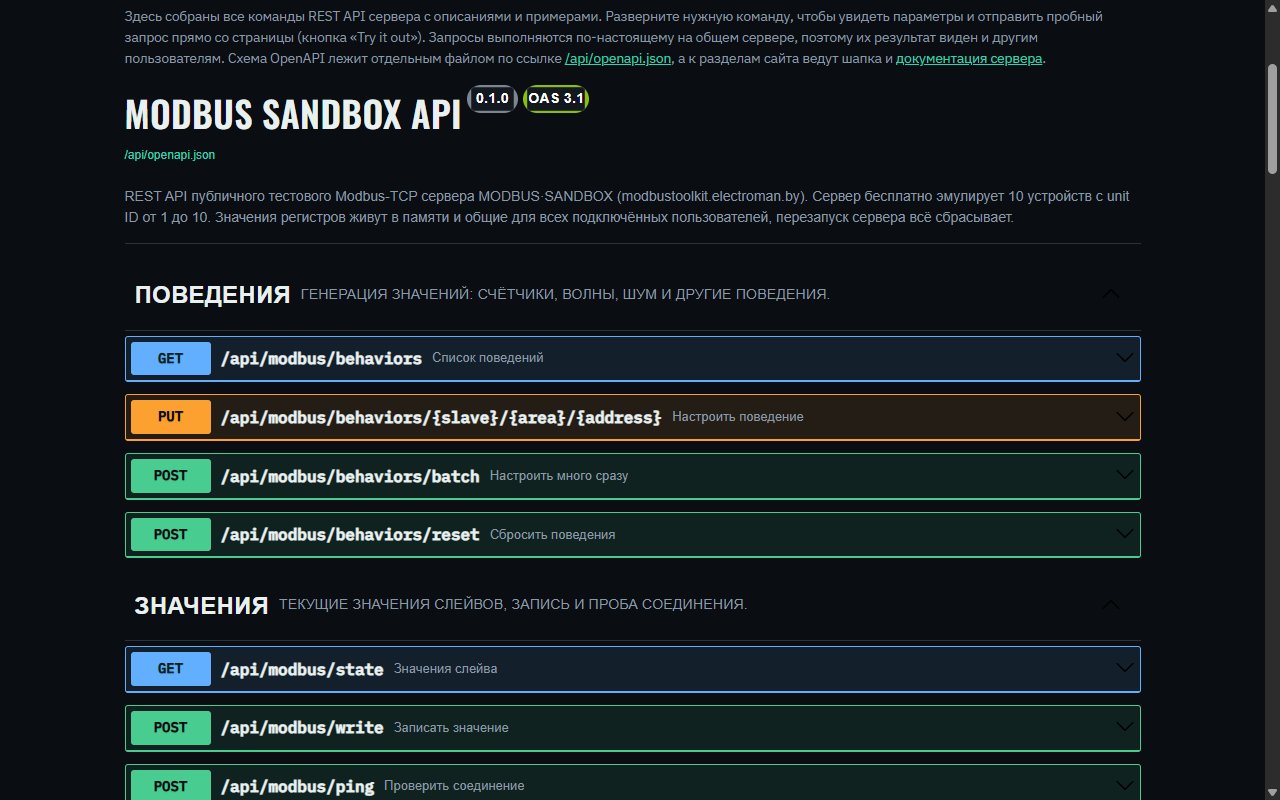
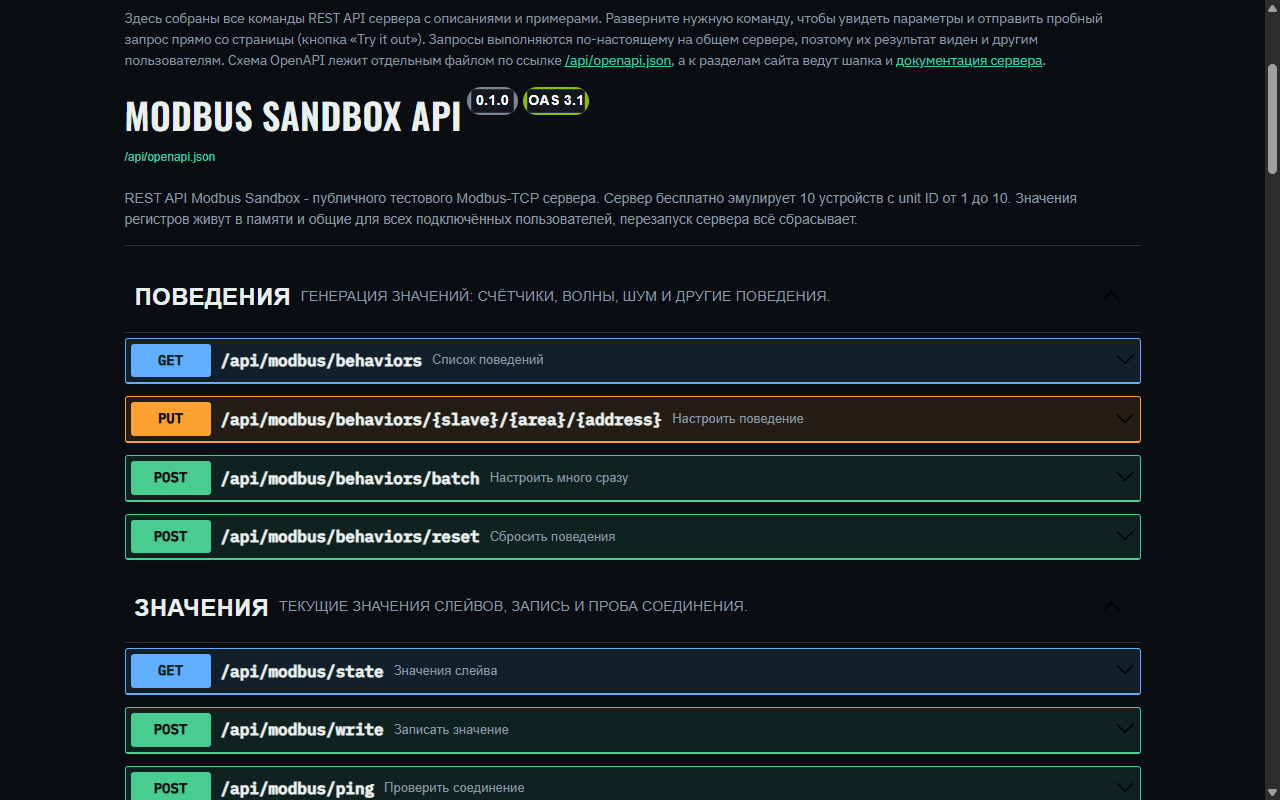
docs(modbus): превью и скриншоты с адресом modbus-sendbox.electroman.by
- social-preview.png пересобран с новым адресом; исходник HTML лежит
  в docs/images/src/ и собирается headless Chrome без внешних ресурсов;
- overview.png и api.png пересняты: хост на «Обзоре» и описание REST API
  теперь про Modbus Sandbox;
- README: git clone в разделе «Свой сервер».

Changed region(s): [[0.0938, 0.3438, 0.9062, 0.7188], [0.0938, 0.0, 0.875, 0.2812], [0.0938, 0.75, 0.9062, 1.0]]

diff --git a/docs/images/src/social-preview.html b/docs/images/src/social-preview.html
@@ -1,0 +1,97 @@
+<!doctype html>
+<html lang="ru">
+<head>
+<!--
+  Исходник docs/images/social-preview.png (1280x640). Шрифты и цвета - из app/api/static.
+  Пересборка (из корня репозитория):
+    chrome --headless=new --hide-scrollbars --allow-file-access-from-files
+      --force-device-scale-factor=1 --window-size=1280,640
+      --screenshot=docs/images/social-preview.png docs/images/src/social-preview.html
+  (одной строкой; Chrome дописывает PNG с задержкой в пару секунд)
+  Адрес на картинке меняется в блоке .addr.
+-->
+<meta charset="utf-8">
+<style>
+  @font-face{font-family:'Oswald';font-weight:600;src:url(../../../app/api/static/fonts/oswald-600-latin.woff2) format('woff2');}
+  @font-face{font-family:'IBM Plex Sans';font-weight:400;src:url(../../../app/api/static/fonts/ibm-plex-sans-400-cyrillic.woff2) format('woff2');unicode-range:U+0400-045F;}
+  @font-face{font-family:'IBM Plex Sans';font-weight:400;src:url(../../../app/api/static/fonts/ibm-plex-sans-400-latin.woff2) format('woff2');unicode-range:U+0000-00FF,U+2000-206F;}
+  @font-face{font-family:'IBM Plex Mono';font-weight:400;src:url(../../../app/api/static/fonts/ibm-plex-mono-400-cyrillic.woff2) format('woff2');unicode-range:U+0400-045F;}
+  @font-face{font-family:'IBM Plex Mono';font-weight:400;src:url(../../../app/api/static/fonts/ibm-plex-mono-400-latin.woff2) format('woff2');unicode-range:U+0000-00FF,U+2000-206F;}
+  @font-face{font-family:'IBM Plex Mono';font-weight:500;src:url(../../../app/api/static/fonts/ibm-plex-mono-500-latin.woff2) format('woff2');unicode-range:U+0000-00FF,U+2000-206F;}
+
+  :root{
+    --bg:#0a0e12; --surface:#12181e; --surface-2:#171f26; --border:#29333c;
+    --text:#e8f0f0; --text-muted:#8a99a3; --accent:#35d0b0; --warn:#f0a84d;
+  }
+  html,body{margin:0;padding:0;}
+  body{
+    width:1280px;height:640px;overflow:hidden;position:relative;
+    background:var(--bg);color:var(--text);font-family:'IBM Plex Sans',sans-serif;
+  }
+  .bg{
+    position:absolute;inset:0;
+    background:
+      radial-gradient(ellipse 520px 380px at 1280px 0, rgba(53,208,176,.16), transparent 70%),
+      linear-gradient(rgba(255,255,255,.028) 1px, transparent 1px) 0 0/48px 48px,
+      linear-gradient(90deg, rgba(255,255,255,.028) 1px, transparent 1px) 0 0/48px 48px;
+    -webkit-mask-image:linear-gradient(90deg, rgba(0,0,0,.35), #000 65%);
+  }
+  .left{position:absolute;left:80px;top:72px;width:720px;}
+  .pill{
+    display:inline-block;border:2px solid var(--accent);border-radius:999px;
+    padding:8px 21px;color:var(--accent);font-family:'IBM Plex Mono',monospace;
+    font-size:18px;letter-spacing:.15em;text-transform:uppercase;line-height:22px;
+  }
+  h1{
+    margin:28px 0 0;font-family:'Oswald',sans-serif;font-weight:600;
+    font-size:92px;line-height:96px;letter-spacing:.01em;color:var(--text);
+  }
+  h1 .dot{color:var(--accent);}
+  .sub{
+    margin:18px 0 0;font-size:34px;line-height:47px;color:var(--text-muted);
+  }
+  .sub b{color:var(--text);font-weight:400;}
+  .addr{
+    position:absolute;left:80px;top:505px;height:70px;box-sizing:border-box;
+    display:flex;align-items:center;padding:0 28px 0 28px;
+    background:var(--surface);border:1px solid var(--border);border-left:6px solid var(--accent);
+    border-radius:3px;font-family:'IBM Plex Mono',monospace;font-size:29px;color:var(--text);
+  }
+  .addr .port{color:var(--accent);}
+  .card{
+    position:absolute;left:857px;top:236px;width:342px;box-sizing:border-box;
+    background:var(--surface);border:1px solid var(--border);border-radius:5px;overflow:hidden;
+    font-family:'IBM Plex Mono',monospace;
+  }
+  .card .head{
+    display:flex;justify-content:space-between;align-items:center;height:50px;
+    padding:0 22px;background:var(--surface-2);border-bottom:1px solid var(--border);
+    color:var(--text-muted);font-size:15px;letter-spacing:.14em;
+  }
+  .row{
+    display:flex;justify-content:space-between;align-items:center;height:55px;
+    padding:0 22px;border-bottom:1px solid var(--border);font-size:20px;
+  }
+  .row:last-child{border-bottom:0;}
+  .row .v{color:var(--accent);}
+  .row .v.w{color:var(--warn);}
+</style>
+</head>
+<body>
+  <div class="bg"></div>
+  <div class="left">
+    <span class="pill">Бесплатный публичный сервер</span>
+    <h1>MODBUS<span class="dot">·</span>SANDBOX</h1>
+    <p class="sub">Живой <b>Modbus-TCP сервер</b> для проверки<br>клиентов: 10 unit ID, генераторы значений,<br>инъекции ошибок.</p>
+  </div>
+  <div class="addr">modbus-sendbox.electroman.by<span class="port">:5020</span></div>
+  <div class="card">
+    <div class="head"><span>IR · SLAVE 6</span><span>FLOAT</span></div>
+    <div class="row"><span>3</span><span class="v">853.92</span></div>
+    <div class="row"><span>5</span><span class="v">471.89</span></div>
+    <div class="row"><span>9</span><span class="v">278.51</span></div>
+    <div class="row"><span>11</span><span class="v w">412</span></div>
+    <div class="row"><span>13</span><span class="v">515.74</span></div>
+  </div>
+</body>
+</html>

diff --git a/README.md b/README.md
@@ -104,6 +104,8 @@ float DCBA) собраны в [docs/DEMO.md](docs/DEMO.md).
 Локально:
 
 ```bash
+git clone https://github.com/StarLeG/modbustoolkit-sandbox.git
+cd modbustoolkit-sandbox
 uv sync
 uv run python -m app
 ```
